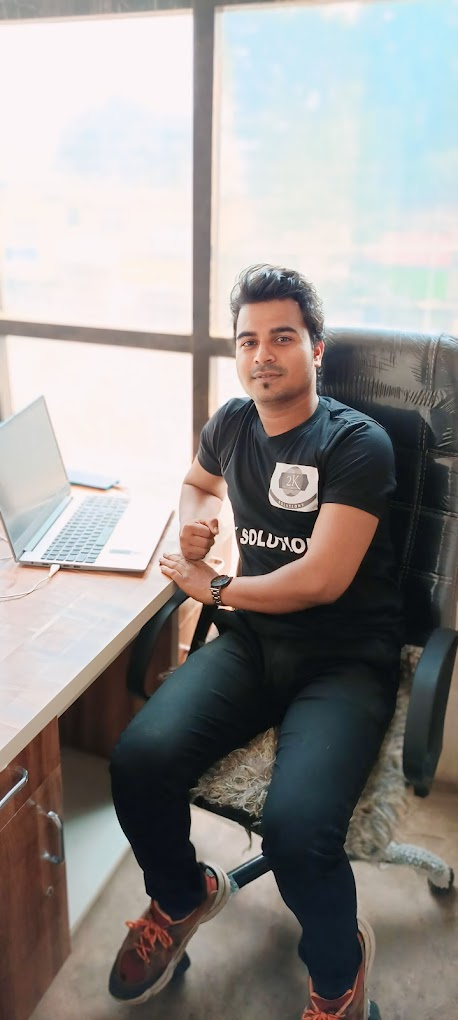
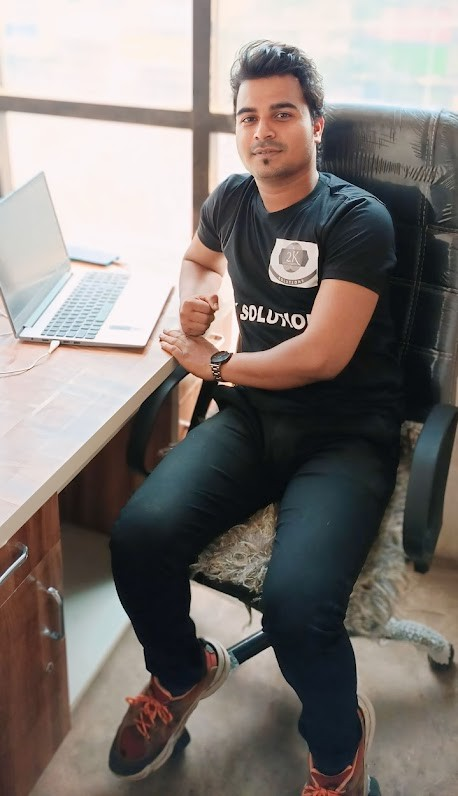
Add Instagram link

diff --git a/index.html b/index.html
@@ -521,7 +521,7 @@
           <div class="contact-info-item"><div class="ci-icon"><i class="fas fa-envelope"></i></div><div><h4>Email Us</h4><p>[email redacted]</p></div></div>
           <div class="contact-social">
             <a href="#" aria-label="Facebook"><i class="fab fa-facebook-f"></i></a>
-            <a href="#" aria-label="Instagram"><i class="fab fa-instagram"></i></a>
+            <a href="https://www.instagram.com/_2k_solutions/" aria-label="Instagram"><i class="fab fa-instagram"></i></a>
             <a href="#" aria-label="LinkedIn"><i class="fab fa-linkedin-in"></i></a>
             <a href="#" aria-label="YouTube"><i class="fab fa-youtube"></i></a>
             <a href="#" aria-label="Twitter"><i class="fab fa-twitter"></i></a>
@@ -559,7 +559,7 @@
           <p>Empowering tech careers through quality education, hands-on training, and industry connections.</p>
           <div class="footer-social">
             <a href="#" aria-label="Facebook"><i class="fab fa-facebook-f"></i></a>
-            <a href="#" aria-label="Instagram"><i class="fab fa-instagram"></i></a>
+            <a href="https://www.instagram.com/_2k_solutions/" aria-label="Instagram"><i class="fab fa-instagram"></i></a>
             <a href="#" aria-label="LinkedIn"><i class="fab fa-linkedin-in"></i></a>
             <a href="#" aria-label="YouTube"><i class="fab fa-youtube"></i></a>
             <a href="#" aria-label="Twitter"><i class="fab fa-twitter"></i></a>